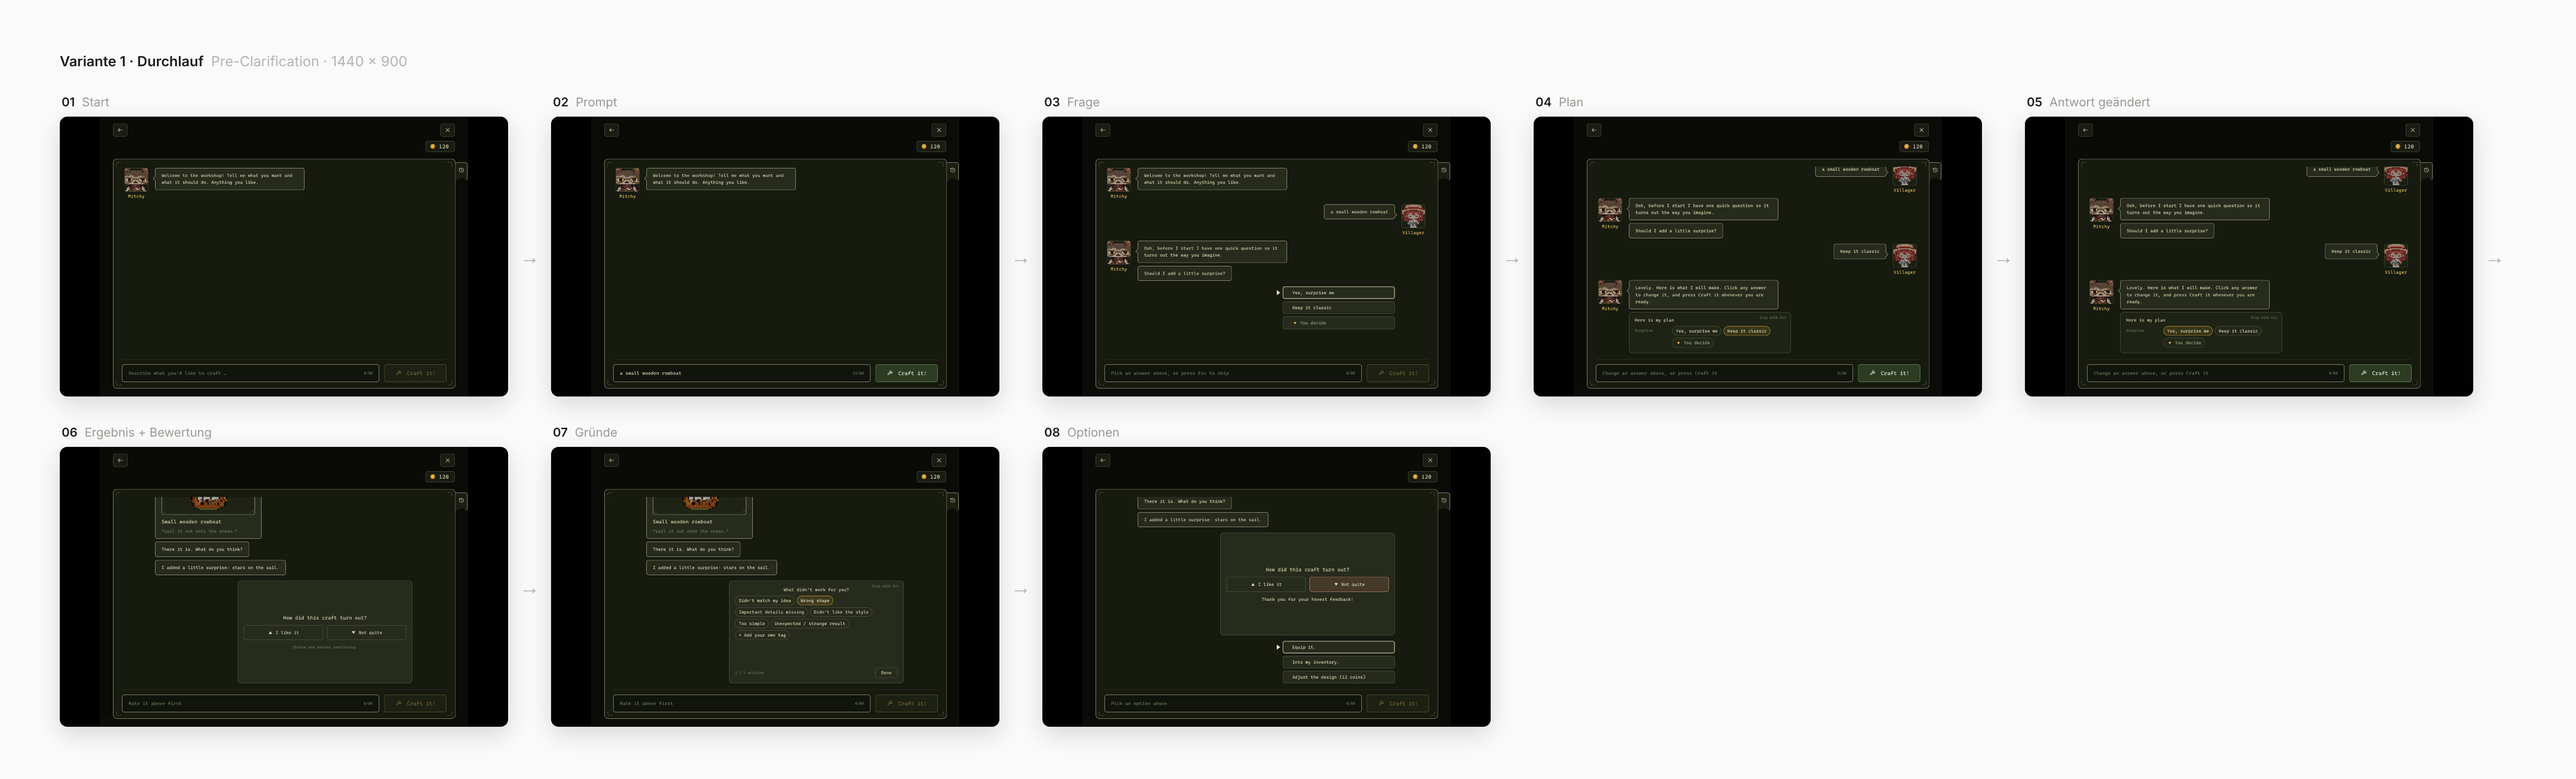
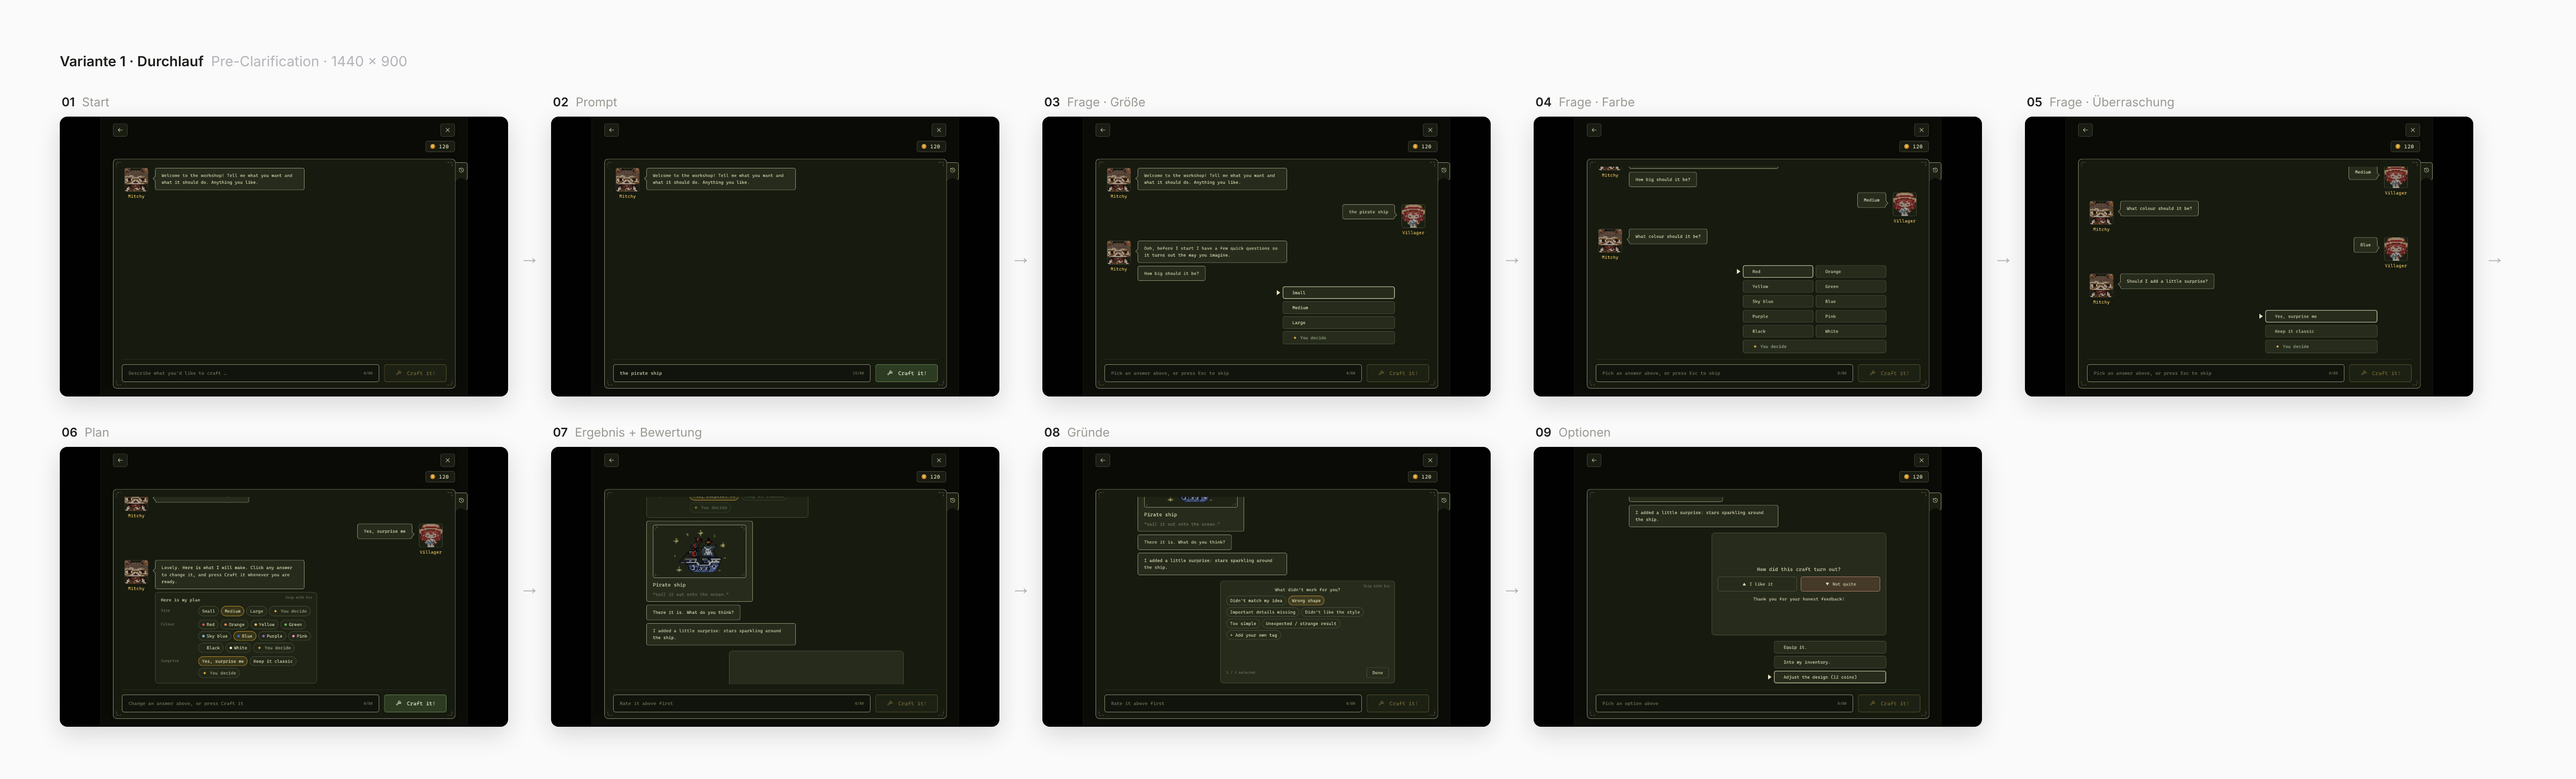
Craft surprise: stars sparkle around the ship (sail and skull stay); variant A run-through with size, colour and surprise
- surpriseLib: the ships' star surprise is now sparkles around the whole
  picture, only on empty pixels, instead of stars painted over the sail; it
  keeps its place in the list, so a prompt still gets the same surprise
- design/crafting-specs/v1: new run-through 'the pirate ship' → Medium → Blue
  → Yes, surprise me → plan → result; measure page on the size question;
  specs.md lists every clarification question and the ship surprises

Claude-Session: https://claude.ai/code/session_01SdonzUkZukdS6Hs9N1LRbm

diff --git a/src/craft/surpriseLib.ts b/src/craft/surpriseLib.ts
@@ -11,8 +11,10 @@
 //            head. They sit on the head's upper edge, found pixel by pixel.
 //   ships    a new motif on the sail (the "sail" part; a pirate ship's skull
 //            is painted over first): red-white stripes, a flower pattern,
-//            polka dots, stars, hearts or one big flower. A ship without a
-//            sail gets a fish jumping by the hull or a bird on the deck.
+//            polka dots, hearts or one big flower; or stars sparkling
+//            around the whole ship (its sail and skull stay). A ship without
+//            a sail gets a fish jumping by the hull, a bird on the deck or
+//            the stars.
 //   cans     a flower where a flower fits: painted on the body, or standing
 //            on the lid; polka dots on the body, a bird on the lid, or a
 //            butterfly floating by.
@@ -61,7 +63,9 @@ const HEART = ['.OO...OO.', 'ORRO.ORRO', 'ORWRORRRO', 'ORRRRRRRO', '.ORRRRRO.', 
 const FISH = ['....OOOO....', '..OOBBBBO..O', '.OBWBBBBBOOB', 'OBKBBBBBBBBO', '.OBBBBBBBOOB', '..OOBBBBO..O', '....OOOO....'];
 // small stamps for the patterns (no outline: they're painted on cloth)
 const STAMP_FLOWER = ['.P.', 'PYP', '.P.'];
-const STAMP_STAR = ['..Y..', '.YYY.', 'YYYYY', '.Y.Y.'];
+// a four-pointed sparkle (a big and a small one), around a ship
+const SPARKLE = ['...Y...', '...Y...', '..YWY..', 'YYWWWYY', '..YWY..', '...Y...', '...Y...'];
+const SPARKLE_SMALL = ['.Y.', 'YWY', '.Y.'];
 const STAMP_HEART = ['RR.RR', 'RRRRR', '.RRR.', '..R..'];
 const STAMP_DOT = ['.WW.', 'WWWW', 'WWWW', '.WW.'];
 
@@ -70,7 +74,7 @@ const cols = (m: string[]) => Math.max(...m.map((r) => r.length));
 // Draw a picture at (x, y), `scale` picture pixels per pixel. `clip`: only
 // on that part's pixels (a pattern painted on the sail); else it is added
 // on top as its own opaque pixels.
-function stamp(l: Layer, map: string[], x: number, y: number, scale: number, clip?: string) {
+function stamp(l: Layer, map: string[], x: number, y: number, scale: number, clip?: string, onlyEmpty = false) {
   const d = l.img.data;
   const dw = Math.round(cols(map) * scale), dh = Math.round(map.length * scale);
   for (let py = 0; py < dh; py++)
@@ -82,6 +86,7 @@ function stamp(l: Layer, map: string[], x: number, y: number, scale: number, cli
       if (X < 0 || Y < 0 || X >= l.img.w || Y >= l.img.h) continue;
       const i = Y * l.img.w + X;
       if (clip && l.part[i] !== clip) continue;
+      if (onlyEmpty && d[i * 4 + 3] > 127) continue;
       d[i * 4] = rgb[0];
       d[i * 4 + 1] = rgb[1];
       d[i * 4 + 2] = rgb[2];
@@ -179,6 +184,25 @@ function clearMotif(l: Layer) {
   if (l.part.includes('motif')) blankPart(l, 'motif', 'sail');
 }
 const hasSail = (l: Layer) => l.part.includes('sail');
+// sparkles in a loose ring around the whole picture, only on empty pixels:
+// the item itself (a pirate ship's sail and skull) stays as it is
+function sparkleAround(l: Layer): boolean {
+  const b = solidBox(l);
+  if (!b || b.w < 8 || b.h < 8) return false;
+  const big = Math.max(1, (b.h * 0.16) / SPARKLE.length);
+  const small = Math.max(1, (b.h * 0.07) / SPARKLE_SMALL.length);
+  // [across, down] of the solid box (outside 0..1 = beside it), big or small
+  const at: [number, number, boolean][] = [
+    [-0.06, 0.08, true], [0.2, -0.1, false], [0.52, -0.14, true], [0.84, -0.06, false],
+    [1.04, 0.22, true], [1.08, 0.58, false], [-0.1, 0.5, false], [0.96, 0.92, false], [0.02, 0.9, true],
+  ];
+  for (const [ax, ay, isBig] of at) {
+    const map = isBig ? SPARKLE : SPARKLE_SMALL;
+    const k = isBig ? big : small;
+    stamp(l, map, b.x + b.w * ax - (cols(map) * k) / 2, b.y + b.h * ay - (map.length * k) / 2, k, undefined, true);
+  }
+  return true;
+}
 const onSail = (l: Layer, paint: () => boolean) => {
   if (!hasSail(l)) return false;
   clearMotif(l);
@@ -242,9 +266,10 @@ const SURPRISES: SurpriseDef[] = [
     id: 'sail-dots', name: 'polka dots on the sail', fits: 'ships',
     apply: ({ layer }) => onSail(layer, () => pattern(layer, 'sail', STAMP_DOT, 4)),
   },
+  // (in the stars' old place in the list, so a prompt keeps its surprise)
   {
-    id: 'sail-stars', name: 'stars on the sail', fits: 'ships',
-    apply: ({ layer }) => onSail(layer, () => pattern(layer, 'sail', STAMP_STAR, 3)),
+    id: 'star-sparkle', name: 'stars sparkling around the ship', fits: 'ships',
+    apply: ({ layer }) => sparkleAround(layer),
   },
   {
     id: 'sail-hearts', name: 'hearts on the sail', fits: 'ships',

diff --git a/design/crafting-specs/specs.md b/design/crafting-specs/specs.md
@@ -130,3 +130,18 @@ Deaktiviert: Deckkraft 45 %. Schatten Verlauf: −10 0 28 · #000 35 %.
 - **Sheet:** min(1180, 96vw), Höhe 100dvh, die Inhalte füllen sie.
 - **Bubbles:** max min(480, 64 %), Optionen 360.
 - **390 px:** Sheet 374, Avatar 60, Bubbles füllen die Breite.
+
+## Klärungsfragen (Variante A)
+Durchlauf `v1/`: Prompt „the pirate ship“ → Größe **Medium** → Farbe **Blue** → Überraschung **Yes, surprise me** → Plan → Ergebnis.
+
+| Frage | Wann | Optionen |
+|---|---|---|
+| How big should it be? | Prompt nennt keine Größe | Small · Medium · Large · You decide |
+| What colour should it be? | Prompt nennt keine Farbe | Red · Orange · Yellow · Green · Sky blue · Blue · Purple · Pink · Black · White · You decide |
+| Should I add a little surprise? | immer | Yes, surprise me · Keep it classic · You decide |
+| Tierart ohne Muster („a bird“) | nur dann | Craft it anyway · Try another object |
+| Tippfehler beim Objekt | nur dann | Vorschlag · Craft it anyway · Surprise · Try another object |
+| Unbekanntes Objekt | nur dann | Craft it anyway · Surprise · Try another object |
+| Unbekanntes Wort / Detail ohne Muster | nur dann | (Vorschlag) · Craft it anyway · Skip this detail |
+
+Überraschungen beim Schiff: rot-weiße Streifen, Blumenmuster, Punkte, Herzen oder eine große Blume auf dem Segel, Sterne rund um das Schiff (Segel bleibt), ohne Segel auch Fisch oder Vogel. Welche kommt, hängt fest am Prompt-Text.
